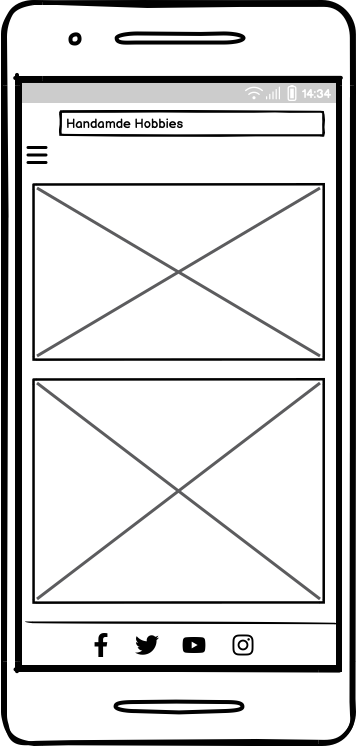
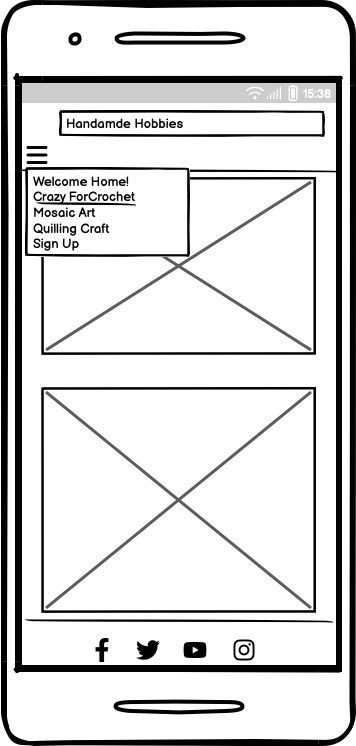
replaced some mobile wireframes and content from crochet gallery page which was dded recently

Changed region(s): [[0.0618, 0.2158, 0.927, 0.8941], [0.8034, 0.1233, 0.8343, 0.1542]]

diff --git a/crazyforcrochet.html b/crazyforcrochet.html
@@ -44,17 +44,7 @@
         </nav>
     </header>
     <main>
-        <section id="reasons">
-            <h2>Crochet</h2>
-            <div id="hobbies">
-                <hr />
-                <p class="paragraphs">
-                    A wide range of creative possibilities are offered by Crochet Craft.
-                    Some examples are clothing, baby items, home decor items, accessories, seasonal items etc.
-                    Please find some of the beautiful collection here.
-                </p>
-            </div>
-        </section>
+     
         <!-- all the gallery images-->
         <section id="crochet">
             <div id="photos">
